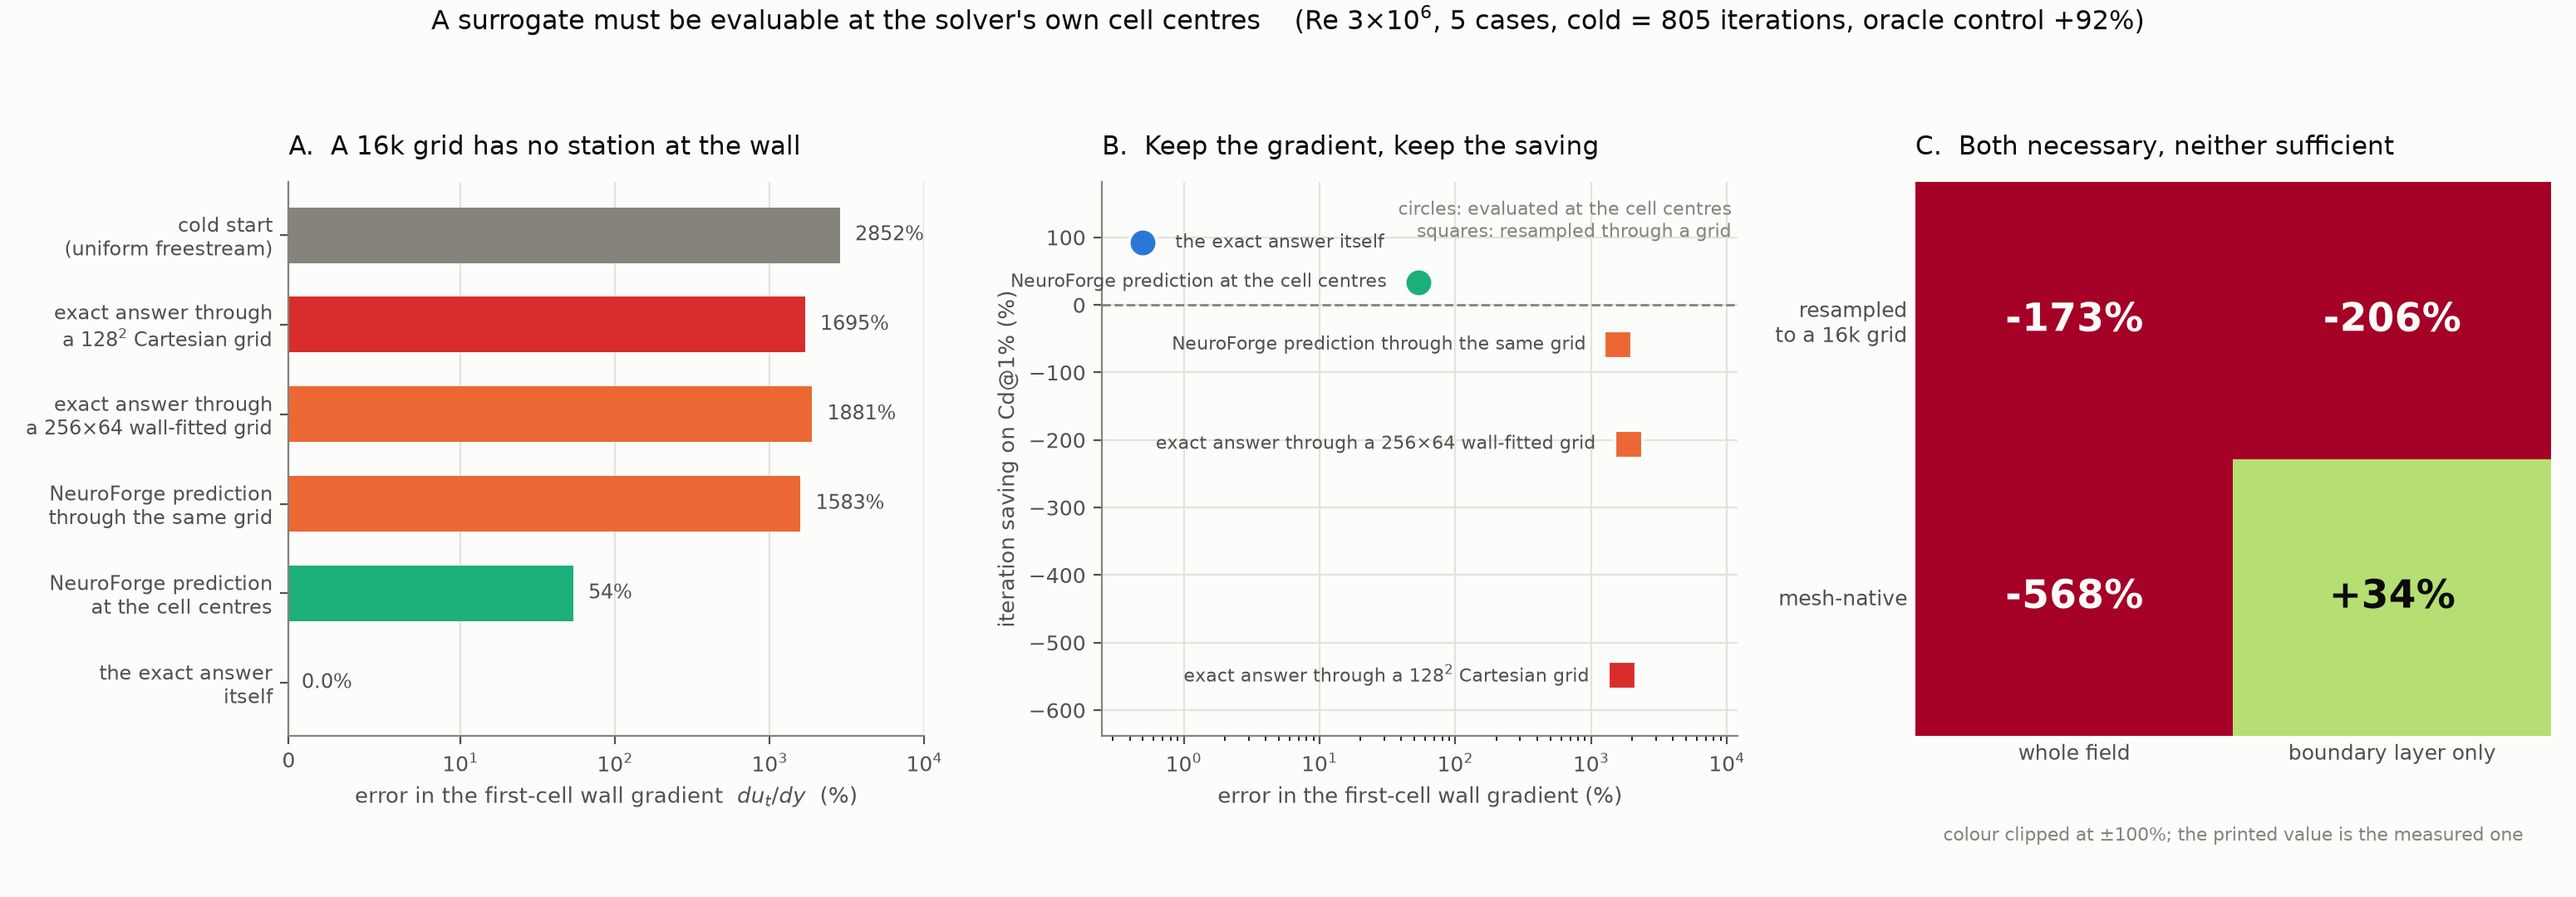
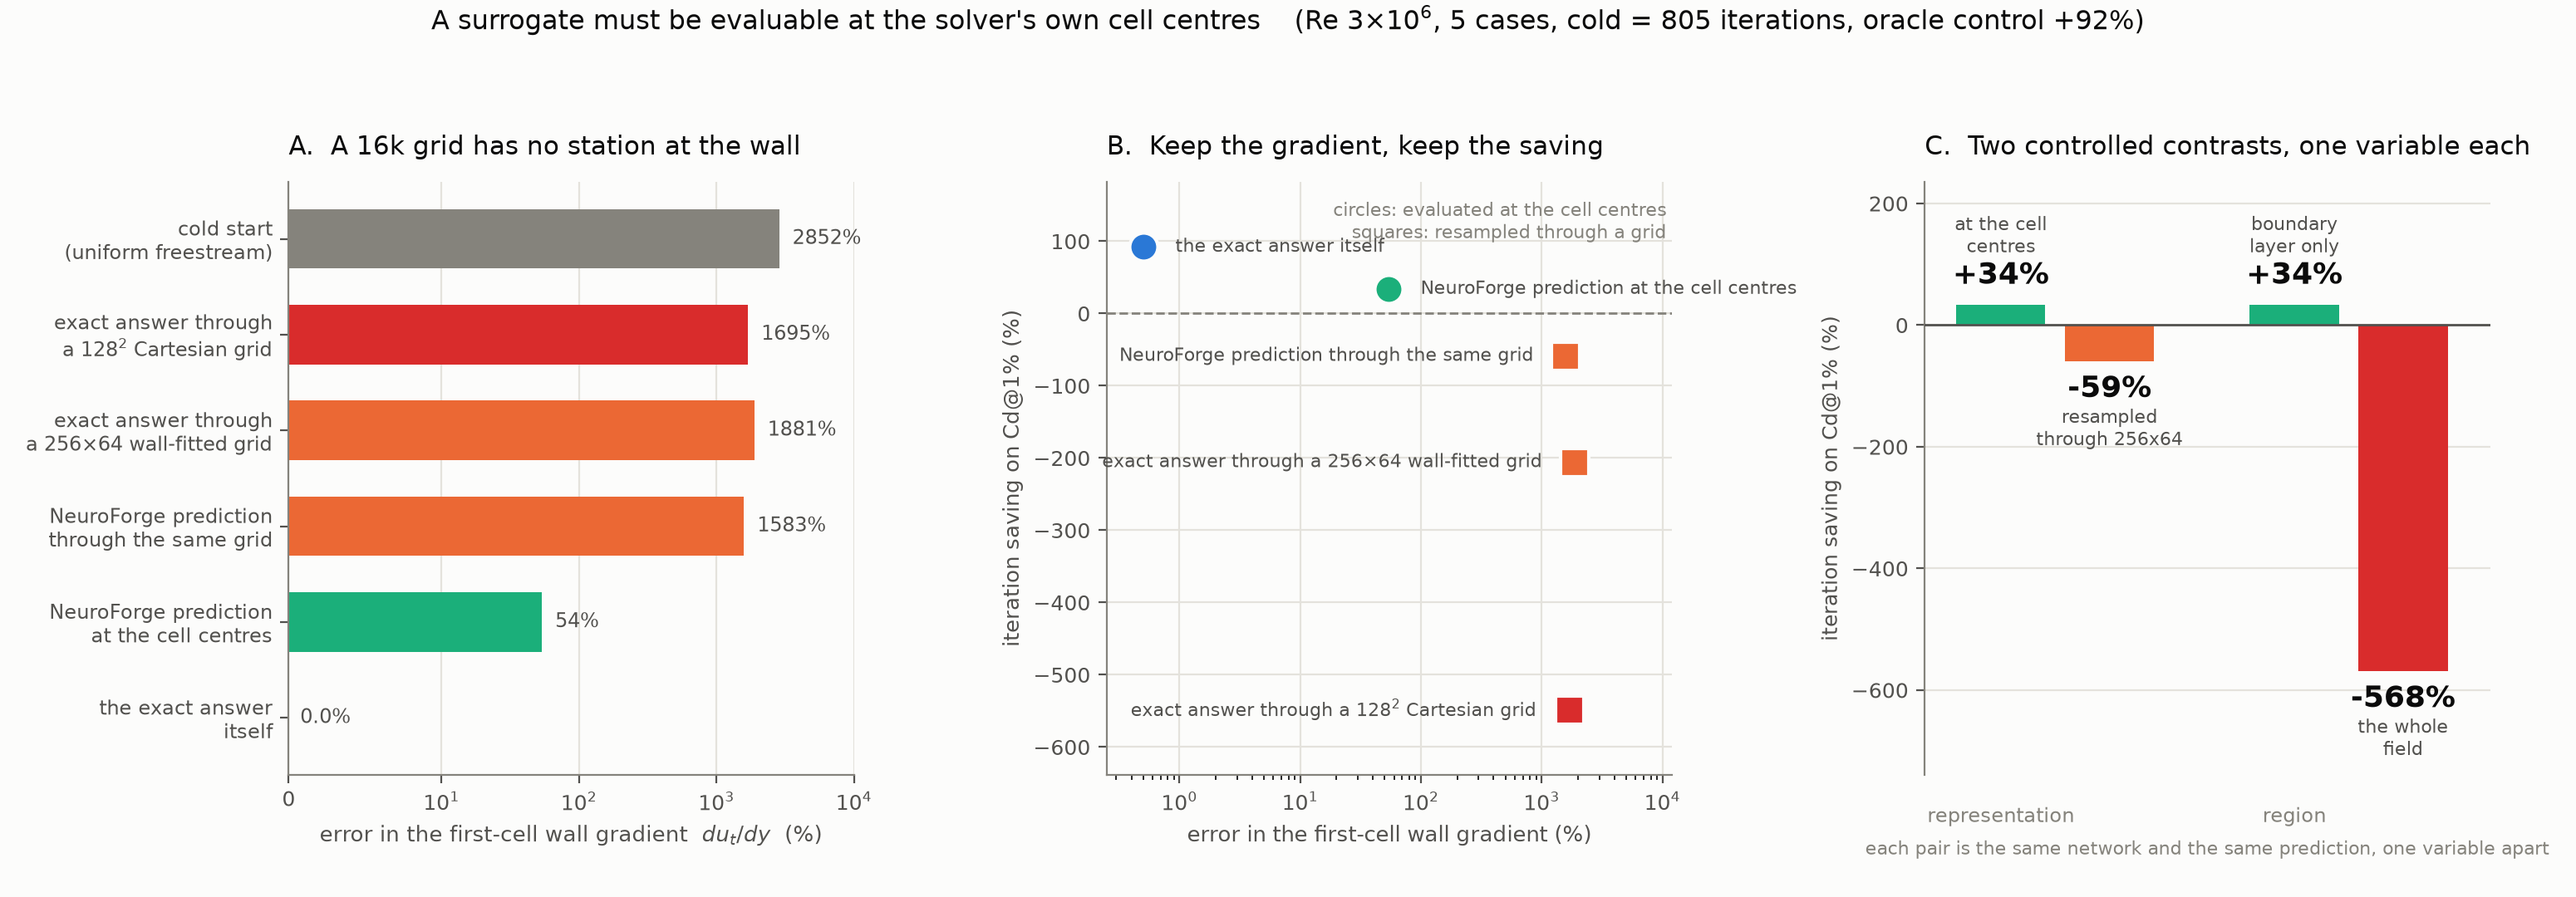
Panel C was the retired 2x2, so redraw it as the two controlled contrasts
The figure carried the same mixed-provenance table the text had just dropped:
oracle arms on top, network arms below, and the completing cell never run. It
now draws what the study controlled -- representation and region, each pair the
same network and the same prediction one variable apart.

Three layout faults fixed along the way. Value and label now stack on the bar's
free end, because splitting them across zero put one bar's label level with its
neighbour's value. Group headers are single words below the axis instead of
three-line blocks colliding with the title. And panel B splits its label side on
position along the drawn log axis: four arms sit in one decade at the right, so
the geometric mean landed among them and threw the cell-centre label into the
y-axis.

Every panel is regenerated from results/depth_repr3_nowake.json, the declared
arm set, so the figure and the tables cannot drift apart.

Claude-Session: https://claude.ai/code/session_01RdSPwGi1ULvDVFDit8Ub4j

diff --git a/scripts/plot_mechanism.py b/scripts/plot_mechanism.py
@@ -15,8 +15,12 @@ eye should land on.
 one point per arm. Arms cluster into the ones that kept the gradient and the ones
 that lost it, and the split in saving follows.
 
-**C.** The 2x2. Mesh-native evaluation and boundary-layer-only handover are each
-necessary and neither is sufficient; only the corner with both is positive.
+**C.** The two contrasts the study actually controlled, sharing the arm ``nf_bl``
+and moving one variable each: representation (cell centres vs resampled) and
+region (boundary layer vs whole field). This replaced a 2x2 on 2026-08-30 whose
+top row was oracle arms and whose bottom row was network arms -- the cell that
+would have completed it was never run, and four cells from two populations read
+as a design when they are a gap.
 
 Usage
 -----
@@ -135,17 +139,22 @@ def main(argv=None):
     # sideways, not above and below: three stacked labels in the same decade is
     # what the first draft produced. Points on the right are labelled leftwards
     # and vice versa, so no label leaves the axes.
-    xs = [p[0] for p in points]
-    midpoint = np.sqrt(min(xs) * max(xs))
+    # Split on position along the *drawn* log axis, not on the geometric mean of
+    # the data: four of the five arms sit in one decade near the right-hand end,
+    # so the geometric mean lands among them and sends the cell-centre arm's
+    # label leftwards into the y-axis.
+    x_lo, x_hi = 0.25, 1.2e4
+    def frac(v):
+        return np.log10(v / x_lo) / np.log10(x_hi / x_lo)
     for x, y, label, _colour, _native in points:
-        right = x < midpoint
+        right = frac(x) < 0.6
         ax.annotate(label, (x, y), fontsize=8, color=INK_2,
                     xytext=(14 if right else -14, 0), textcoords="offset points",
                     ha="left" if right else "right", va="center")
     lo, hi = min(p[1] for p in points), max(p[1] for p in points)
     pad = 0.14 * (hi - lo)
     ax.set_ylim(lo - pad, hi + pad)
-    ax.set_xlim(0.25, 1.2e4)
+    ax.set_xlim(x_lo, x_hi)
     ax.axhline(0, color=INK_3, lw=1, ls="--")
     ax.set_xscale("log")
     ax.set_xlabel("error in the first-cell wall gradient (%)",
@@ -163,43 +172,67 @@ def main(argv=None):
             transform=ax.transAxes, ha="right", va="top",
             fontsize=8, color=INK_3)
 
-    # --- C: the 2x2 ----------------------------------------------------------
+    # --- C: the two controlled contrasts -------------------------------------
+    # This panel used to be a 2x2. It was retired on 2026-08-30: its top row was
+    # oracle arms and its bottom row network arms, and the cell that would have
+    # made it a real 2x2 -- a network prediction of the whole field, resampled --
+    # was never run. Four cells drawn from two populations read as a design when
+    # they are a gap. What replaces it is what the study actually controlled:
+    # two contrasts that share the arm nf_bl and move one variable each.
     ax = axes[2]
-    cells = [["fitted_256x64", "fitted_bl"], ["nf_mesh", "nf_bl"]]
-    grid_vals = np.full((2, 2), np.nan)
-    for i, rowk in enumerate(cells):
-        for j, key in enumerate(rowk):
+    contrasts = [
+        ("representation",
+         [("at the cell\ncentres", "nf_bl", GOOD),
+          ("resampled\nthrough 256x64", "nf_bl_proj", ORANGE)]),
+        ("region",
+         [("boundary\nlayer only", "nf_bl", GOOD),
+          ("the whole\nfield", "nf_mesh", BAD)]),
+    ]
+    xs, heights, colours, labels, groups = [], [], [], [], []
+    x = 0.0
+    for gi, (gname, pair) in enumerate(contrasts):
+        groups.append((x + 0.5, gname))
+        for lab, key, col in pair:
             s = saving(key)
-            if s is not None:
-                grid_vals[i, j] = 100 * s
-    # Scaled to +/-100% and clipped. On the true range one arm at -568% pushes
-    # everything else into the middle of the ramp, so -173% reads warmer than
-    # -206% and the +34% barely registers as green -- the colour would then say
-    # the opposite of the numbers. Clipping makes the sign legible; the printed
-    # value is always the real one.
-    limit = 100.0
-    ax.imshow(np.clip(grid_vals, -limit, limit), cmap="RdYlGn",
-              vmin=-limit, vmax=limit, aspect="auto")
-    for i in range(2):
-        for j in range(2):
-            v = grid_vals[i, j]
-            ax.text(j, i, "--" if not np.isfinite(v) else f"{v:+.0f}%",
-                    ha="center", va="center", fontsize=17,
-                    color=SURFACE if np.isfinite(v) and abs(v) > 55 else INK,
-                    fontweight="bold")
-    ax.set_xticks([0, 1]); ax.set_xticklabels(["whole field", "boundary layer only"],
-                                              fontsize=9, color=INK_2)
-    ax.set_yticks([0, 1]); ax.set_yticklabels(["resampled\nto a 16k grid",
-                                               "mesh-native"],
-                                              fontsize=9, color=INK_2)
-    ax.set_title("C.  Both necessary, neither sufficient",
+            xs.append(x)
+            heights.append(100 * s if s is not None else np.nan)
+            colours.append(col)
+            labels.append(lab)
+            x += 1.0
+        x += 0.7
+    floor_v = min(v for v in heights if np.isfinite(v))
+    span = 150 - floor_v * 1.30
+    ax.axhline(0, color=INK_2, lw=1.0, zorder=4)
+    ax.bar(xs, heights, width=0.82, color=colours, zorder=3)
+    for xi, v, lab in zip(xs, heights, labels):
+        up = v >= 0
+        # Value *and* label both beyond the bar's free end, stacked, so each
+        # bar owns one column of text. Splitting them across the zero line put
+        # a negative bar's label at the same height as its neighbour's value,
+        # which read as if the label belonged to the wrong bar.
+        ax.text(xi, v + (0.025 if up else -0.025) * span, f"{v:+.0f}%",
+                ha="center", va="bottom" if up else "top",
+                fontsize=13, fontweight="bold", color=INK, zorder=5)
+        ax.text(xi, v + (0.085 if up else -0.085) * span, lab,
+                ha="center", va="bottom" if up else "top",
+                fontsize=8, color=INK_2, zorder=5)
+    for xc, gname in groups:
+        ax.text(xc - 0.5, -0.055, gname, transform=ax.get_xaxis_transform(),
+                ha="center", va="top", fontsize=8.5, color=INK_3)
+    ax.set_ylim(floor_v * 1.30, 235)
+    ax.set_xlim(-0.7, x - 0.9)
+    ax.set_xticks([])
+    ax.set_ylabel(f"iteration saving on {args.row.replace('@0.01', '@1%')} (%)",
+                  fontsize=9, color=INK_2)
+    ax.set_title("C.  Two controlled contrasts, one variable each",
                  fontsize=11, color=INK, loc="left", pad=12)
-    for side in ("left", "bottom"):
+    ax.grid(axis="y", color=GRID, lw=0.8)
+    ax.set_axisbelow(True)
+    for side in ("top", "right", "bottom"):
         ax.spines[side].set_visible(False)
-    ax.tick_params(length=0)
-    ax.text(0.5, -0.19, "colour clipped at $\\pm$100%; the printed value is the "
-                        "measured one", transform=ax.transAxes, ha="center",
-            fontsize=7.8, color=INK_3)
+    ax.text(0.5, -0.135, "each pair is the same network and the same prediction, "
+                         "one variable apart",
+            transform=ax.transAxes, ha="center", fontsize=7.8, color=INK_3)
 
     n = row.get("cold_n")
     fig.suptitle(

diff --git a/docs/paper2/DRAFT.md b/docs/paper2/DRAFT.md
@@ -457,6 +457,15 @@ bounds drag bounds the residual metric's worst case at -7.6%.
 
 ## 6. The mechanism
 
+> **Figure 1** (`results/mechanism.png`, from `scripts/plot_mechanism.py`) is the
+> paper's central figure and carries this section and §5 together. **A** — what
+> each representation does to the first-cell wall gradient, including projections
+> of the exact answer. **B** — that gradient error against what it bought on
+> drag, one point per arm, circles evaluated at the cell centres and squares
+> resampled; the two clusters separate cleanly. **C** — the two controlled
+> contrasts of §5.1 and §5.2, each pair the same network and the same prediction,
+> one variable apart.
+
 `scripts/seed_gradient_diagnostic.py`, six cases. For each seed *as the solver
 received it*, the error in the first-cell tangential velocity gradient du_t/dy
 — the quantity viscous drag integrates — measured along the outward wall normal
